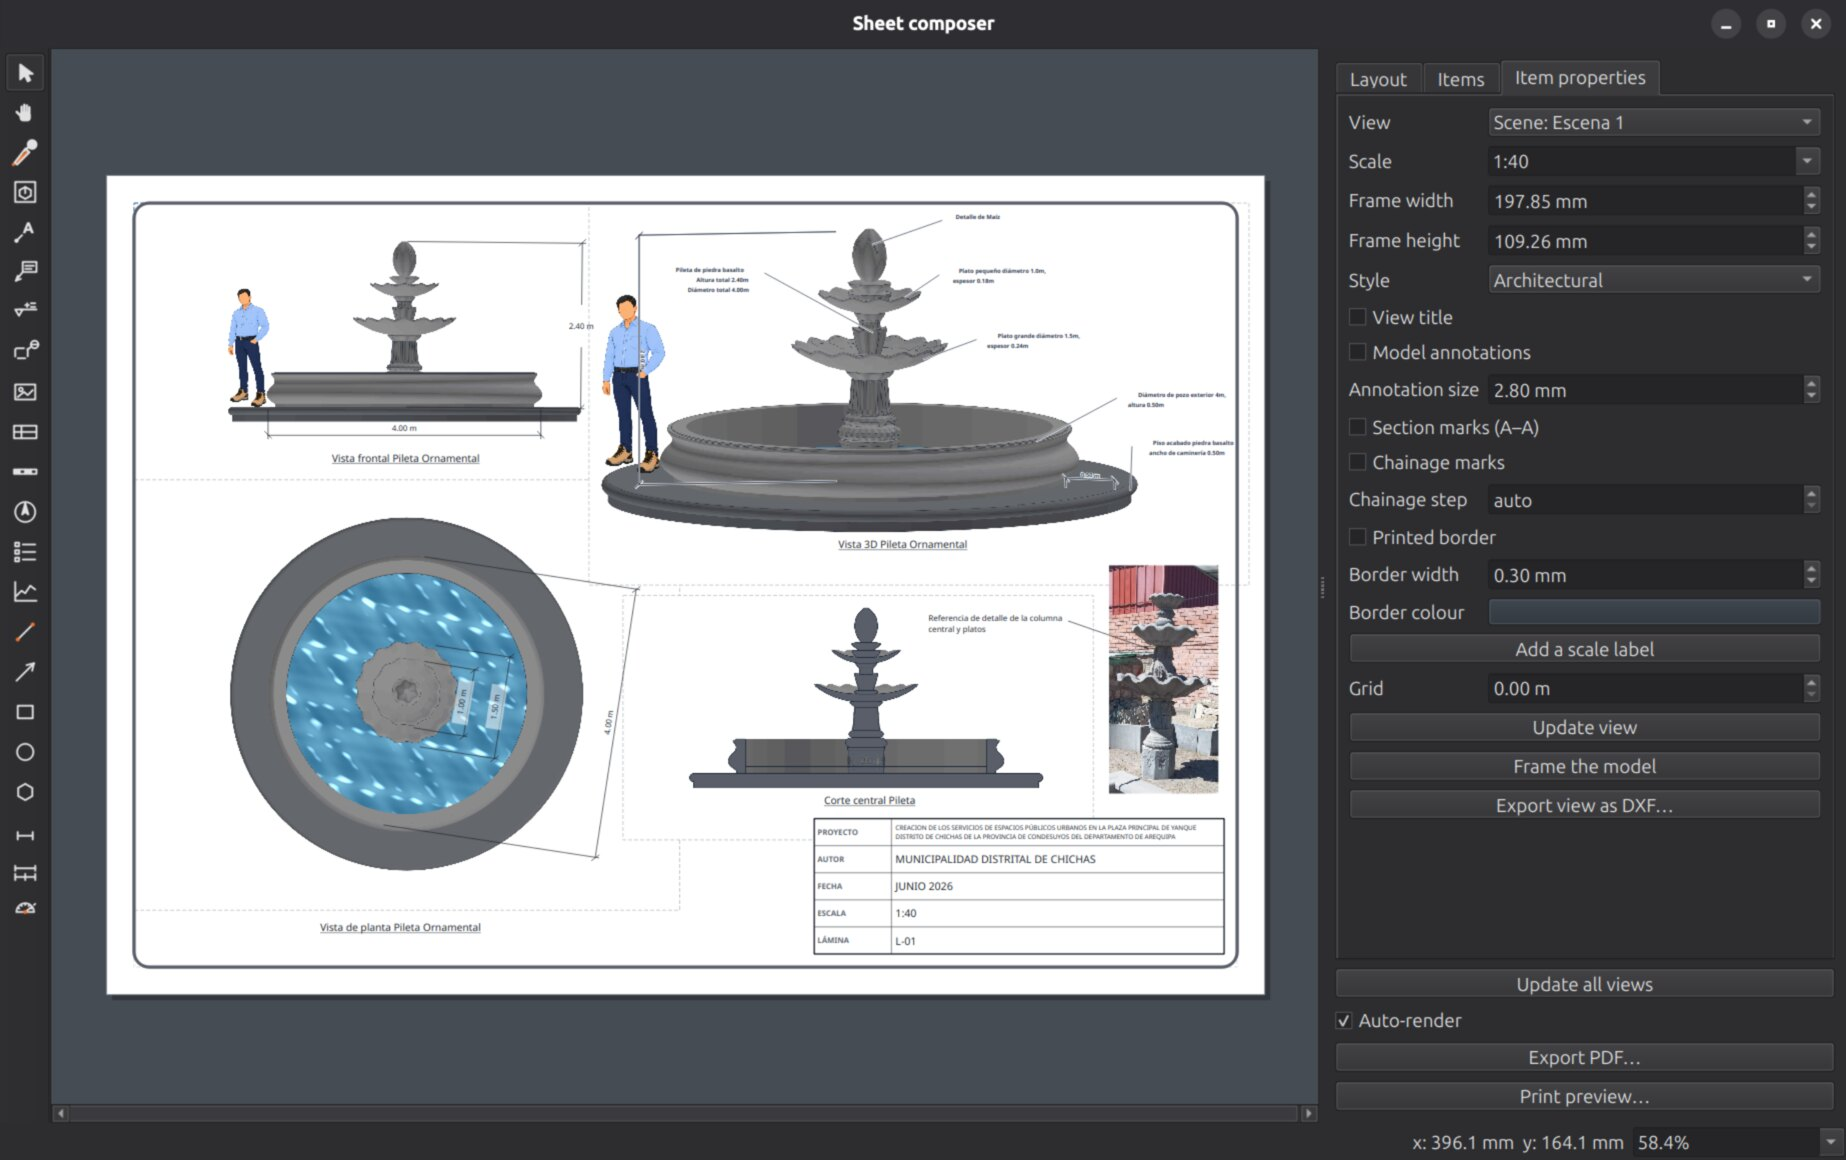
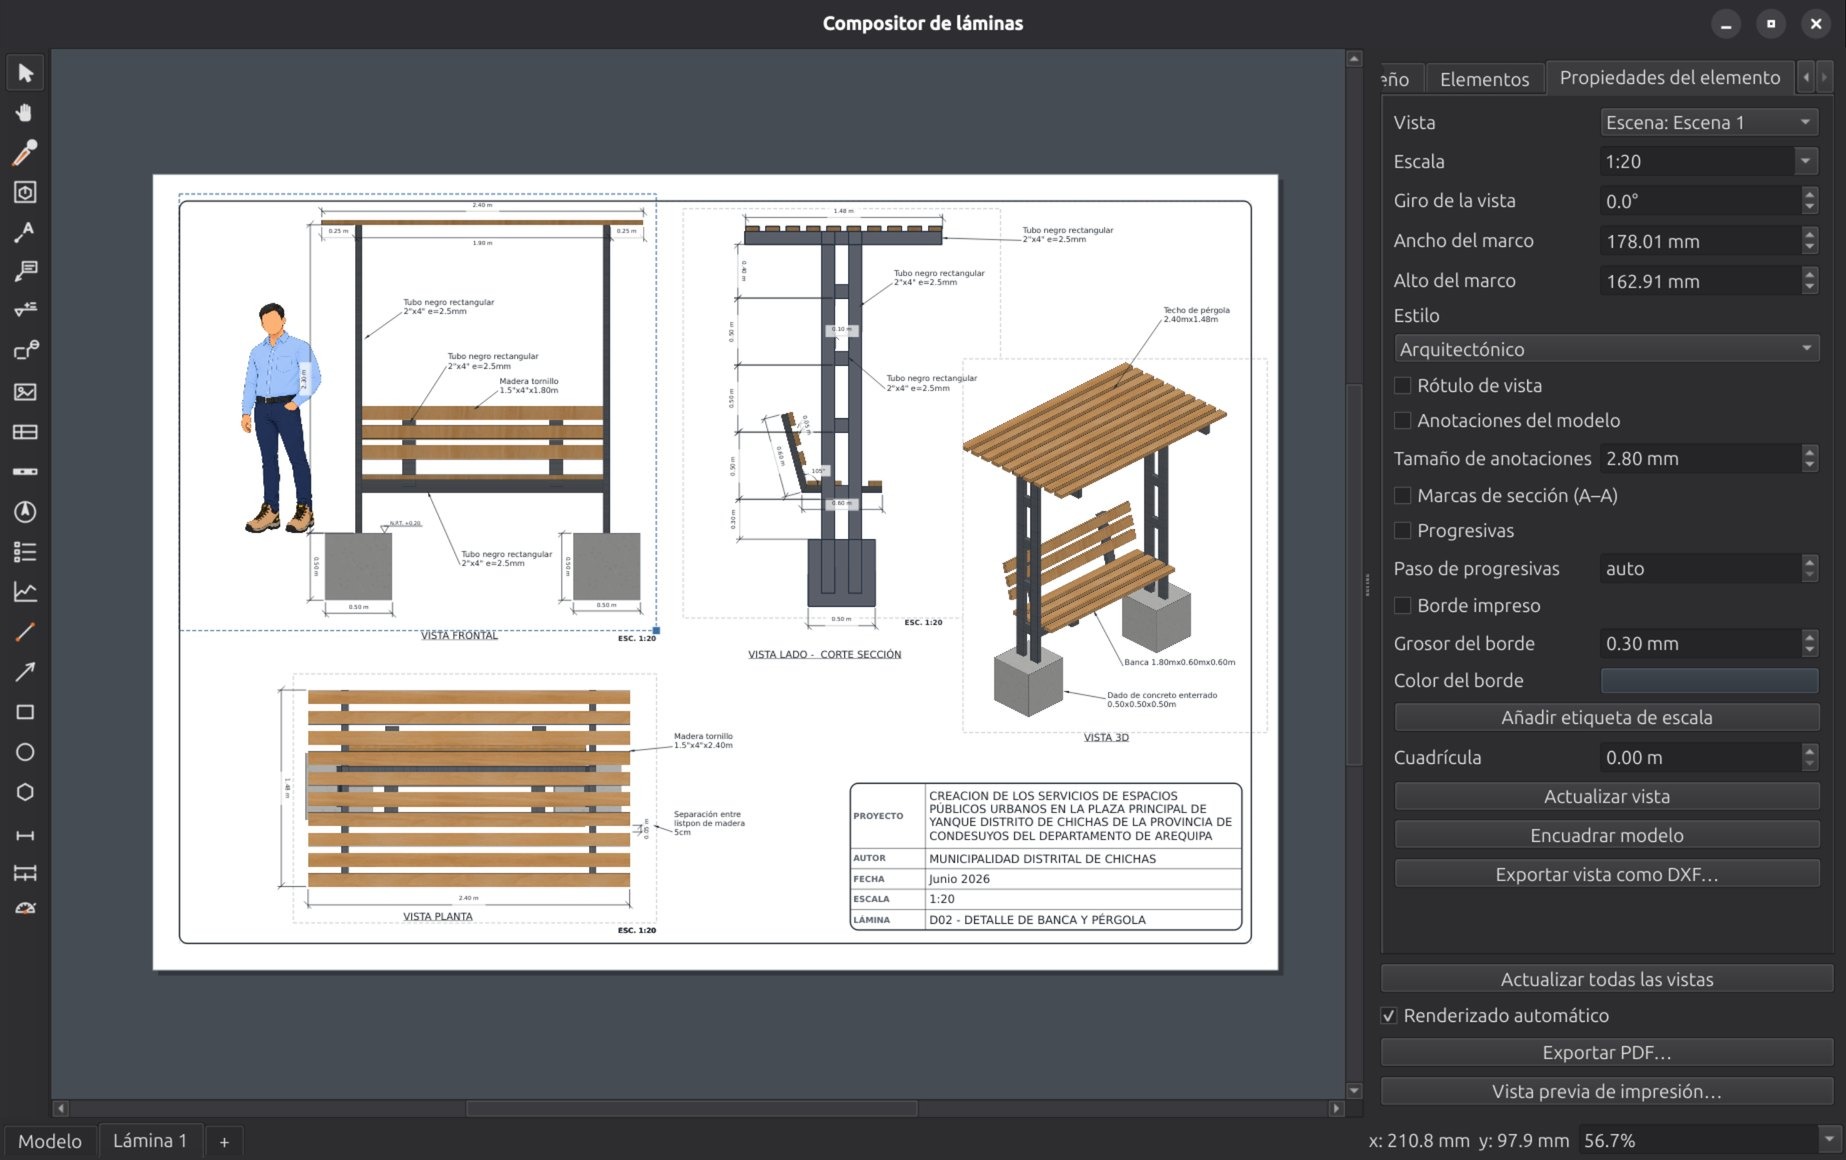
láminas: captura de la ventana del compositor con la lámina D02 de la banca con pérgola a 1:20
Sustituye la lámina de la pileta rasterizada del PDF por la captura de
Marco del compositor abierto: cuatro vistas, cotas, llamadas, cajetín y
el panel de propiedades de la vista.

Claude-Session: https://claude.ai/code/session_01JMtKZWLyQj549hbuFgguMB

diff --git a/index.html b/index.html
@@ -282,11 +282,11 @@
             <li><strong>Cajetín editable, escala gráfica y norte</strong> — y varias láminas por documento, a PDF en un clic</li>
             <li><strong>DXF hacia <a href="https://ingecad.org" target="_blank" rel="noopener">IngeCAD</a></strong> — la vista vectorial, con una capa por clase de línea, lista para rematar los detalles 2D en el CAD libre del ecosistema</li>
           </ul>
-          <p class="feat-muted">En la captura: la lámina real de una pileta ornamental para la plaza de Yanque — frontal, 3D, planta y corte central a 1:40, con cotas, etiquetas, foto de referencia y cajetín.</p>
+          <p class="feat-muted">En la captura: el compositor de láminas abierto sobre la lámina D02, detalle de una banca con pérgola para la plaza de Yanque — vista frontal, lado con corte de sección, planta y 3D, todas a 1:20, con cotas, llamadas de material, figura de escala y cajetín; a la derecha, las propiedades de la vista seleccionada: escena, escala, estilo Arquitectónico y tamaño de las anotaciones.</p>
         </div>
         <figure class="feat-img">
           <img class="zoomable" src="images/screenshots/laminas.jpeg"
-               alt="Compositor de láminas de IngeTrazo: lámina real de una pileta ornamental con vista frontal, 3D, planta y corte a 1:40, cotas, etiquetas y cajetín" width="1846" height="1160" loading="lazy">
+               alt="Ventana del compositor de láminas de IngeTrazo con la lámina D02 de una banca con pérgola: vista frontal, lado con corte, planta y 3D a 1:20, cotas, llamadas y cajetín, y el panel de propiedades de la vista a la derecha" width="1846" height="1160" loading="lazy">
         </figure>
       </div>
     </section>

diff --git a/CLAUDE.md b/CLAUDE.md
@@ -50,11 +50,14 @@ Renovadas COMPLETAS el 2026-08-08 con capturas manuales de Marco (fuente:
   (marco de ventana GNOME recortado con -trim, fondo #1e242c).
 - `import-sketchup.jpeg` — parque infantil abierto desde su `.skp` con las
   capas originales de SketchUp (PERIMETRO, TREES, people…).
-- `laminas.jpeg` — **lámina A3 real exportada por IngeTrazo 0.3** (PDF de
-  dogfooding `laminas-prueba/c3_a3_tecnica.pdf` → pdftoppm): planta +
-  elevaciones de vivienda a 1:100, cajetín y escala gráfica. Candidata a
-  reemplazo por una captura de la VENTANA del compositor cuando Marco la
-  tome (mostraría los paneles y el flujo, no solo el resultado).
+- `laminas.jpeg` — (2026-09-07) captura manual de Marco de la **ventana del
+  compositor** (por fin: paneles y flujo, no solo el resultado): lámina D02
+  «Detalle de banca y pérgola» de la plaza de Yanque, cuatro vistas a 1:20
+  (frontal, lado con corte, planta, 3D) con cotas, llamadas y cajetín, y el
+  panel «Propiedades del elemento» a la derecha. Fuente
+  `~/Imágenes/Capturas de pantalla/Captura desde 2026-09-07 22-54-25.png`
+  (2954×1856, HiDPI) → JPEG 1846×1160 con Pillow, sin recortar. Antes era
+  la lámina A3 de la pileta exportada a PDF y rasterizada.
 
 - `asistente-ia.jpeg` — (2026-09-08) el poste de alumbrado solar de
   `examples/` con el diálogo del Asistente IA abierto encima (UI en
